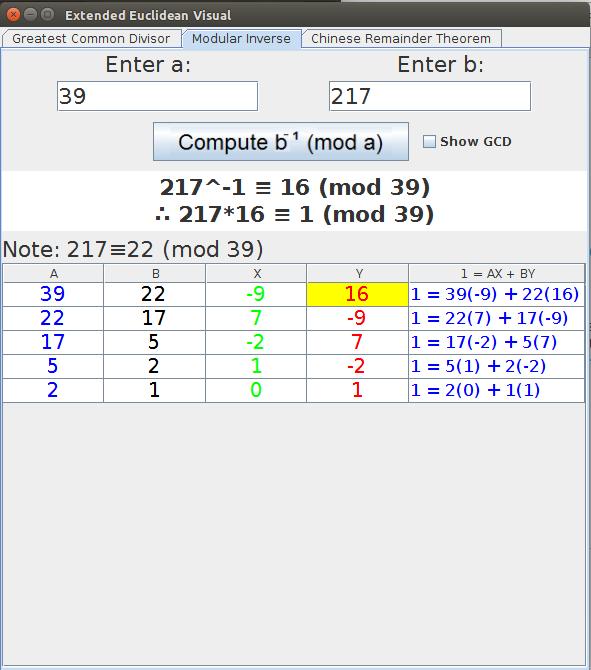
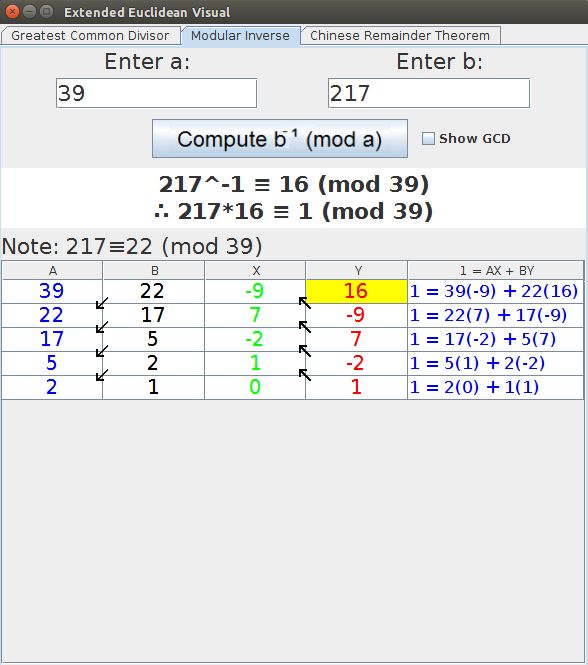
added arrow feature

diff --git a/ModInverseTab.java b/ModInverseTab.java
@@ -1,10 +1,15 @@
+import java.awt.BasicStroke;
 import java.awt.Color;
 import java.awt.Component;
 import java.awt.Dimension;
 import java.awt.Font;
+import java.awt.Graphics;
+import java.awt.Graphics2D;
 import java.awt.GridBagConstraints;
 import java.awt.GridBagLayout;
 import java.awt.Insets;
+import java.awt.Point;
+import java.awt.Rectangle;
 import java.awt.event.ActionEvent;
 import java.awt.event.ActionListener;
 import java.math.BigInteger;
@@ -181,12 +186,68 @@ public class ModInverseTab extends JPanel {
 			public boolean isCellEditable(int row, int column){ //don't let user edit table               
 				return false;      
 			};
+			
+			/**For drawing arrows between cells to clarify workflow.
+			 */
+		    @Override
+		    protected void paintComponent(Graphics g){
+		    	
+		        super.paintComponent(g);
+		 
+		        Graphics2D g2 = (Graphics2D) g;
+		        g2.setStroke(new BasicStroke(2));
+		 
+		        //draw arrows
+		        for (int i = 0; i < getRowCount() - 1; i++)
+		        {
+		        	// -- draw arrow between A,B columns --
+		        	// stem
+		            Rectangle cell = getCellRect(i, 0, false); // cell.x , y = top left corner coords. of rectangle
+		            int outReach = 5; //length to go from paint starting point
+		            Point center = new Point(cell.x + cell.width, cell.y + cell.height); //bottom right corner of cell
+		            Point sw = new Point(center.x - outReach, center.y + outReach); //go southwest. remember x++ is right, y++ is down
+		            Point ne = new Point(center.x + outReach, center.y - outReach); //go northeast
+		            g2.setColor( Color.BLACK);
+		            g2.drawLine(sw.x, sw.y, ne.x, ne.y);
+		            
+		            //now the arrow tip starting from (sw.x, sw.y) - upper part here
+		            outReach = 6;
+		            center = new Point(sw.x, sw.y);
+		            Point north = new Point(center.x, center.y - outReach); 
+		            g2.drawLine(center.x, center.y, north.x, north.y);
+		            
+		            //lower part of arrow tip
+		            Point e = new Point(center.x + outReach, center.y); //east
+		            g2.drawLine(center.x, center.y, e.x, e.y);
+		            
+		            
+		            // -- X,Y columns --
+		            cell = getCellRect(i, 2, false);
+		            outReach = 5; 
+		            center = new Point(cell.x + cell.width, cell.y + cell.height); //bottom right corner of cell
+		            Point nw = new Point(center.x - outReach, center.y - outReach); 
+		            Point se = new Point(center.x + outReach, center.y + outReach); 
+		            g2.drawLine(nw.x, nw.y, se.x, se.y);
+		            
+		            //horizontal tip (above other part)
+		            outReach = 6;
+		            center = new Point(nw.x, nw.y);
+		            e = new Point(center.x + outReach, center.y ); 
+		            g2.drawLine(center.x, center.y, e.x, e.y);
+		            
+		            //vertical tip (lower)
+		            Point south = new Point(center.x, center.y + outReach);
+		            g2.drawLine(center.x, center.y, south.x, south.y);
+		      
+		        }
+		    }// end paintComponent()
 		};
 
 		/* table specifications */
 		t.setFont(new Font("Arial", Font.PLAIN, 20));
 		t.setRowHeight(24);
-
+		t.getTableHeader().setReorderingAllowed(false);
+		
 		//make 1 = AX + BY column larger
 		t.getColumnModel().getColumn(4).setPreferredWidth(150); //normal in gcd tab is 75 each
 		t.getColumnModel().getColumn(4).setCellRenderer(new CellRendererB());
@@ -422,6 +483,7 @@ public class ModInverseTab extends JPanel {
 		ExtendedEuclideanVisual.alignTable(table, 1);
 		table.setFont(new Font("Arial", Font.PLAIN, 18));
 		table.setRowHeight(24);
+		table.getTableHeader().setReorderingAllowed(false);
 		table.getColumnModel().getColumn(3).setCellRenderer(new CellRendererA()); 
 
 		//scroller containing table

diff --git a/CRTTab.java b/CRTTab.java
@@ -1,8 +1,14 @@
+import java.awt.BasicStroke;
+import java.awt.Color;
 import java.awt.Dimension;
 import java.awt.Font;
+import java.awt.Graphics;
+import java.awt.Graphics2D;
 import java.awt.GridBagConstraints;
 import java.awt.GridBagLayout;
 import java.awt.Insets;
+import java.awt.Point;
+import java.awt.Rectangle;
 import java.awt.event.ActionEvent;
 import java.awt.event.ActionListener;
 import java.math.BigInteger;
@@ -289,12 +295,68 @@ public class CRTTab extends JPanel{
 			public boolean isCellEditable(int row, int column){ //don't let user edit table               
 				return false;      
 			};
+			
+			/**For drawing arrows between cells to clarify workflow.
+			 */
+		    @Override
+		    protected void paintComponent(Graphics g){
+		    	
+		        super.paintComponent(g);
+		 
+		        Graphics2D g2 = (Graphics2D) g;
+		        g2.setStroke(new BasicStroke(2));
+		 
+		        //draw arrows
+		        for (int i = 0; i < getRowCount() - 1; i++)
+		        {
+		        	// -- draw arrow between A,B columns --
+		        	// stem
+		            Rectangle cell = getCellRect(i, 0, false); // cell.x , y = top left corner coords. of rectangle
+		            int outReach = 5; //length to go from paint starting point
+		            Point center = new Point(cell.x + cell.width, cell.y + cell.height); //bottom right corner of cell
+		            Point sw = new Point(center.x - outReach, center.y + outReach); //go southwest. remember x++ is right, y++ is down
+		            Point ne = new Point(center.x + outReach, center.y - outReach); //go northeast
+		            g2.setColor( Color.BLACK);
+		            g2.drawLine(sw.x, sw.y, ne.x, ne.y);
+		            
+		            //now the arrow tip starting from (sw.x, sw.y) - upper part here
+		            outReach = 6;
+		            center = new Point(sw.x, sw.y);
+		            Point north = new Point(center.x, center.y - outReach); 
+		            g2.drawLine(center.x, center.y, north.x, north.y);
+		            
+		            //lower part of arrow tip
+		            Point e = new Point(center.x + outReach, center.y); //east
+		            g2.drawLine(center.x, center.y, e.x, e.y);
+		            
+		            
+		            // -- X,Y columns --
+		            cell = getCellRect(i, 2, false);
+		            outReach = 5; 
+		            center = new Point(cell.x + cell.width, cell.y + cell.height); //bottom right corner of cell
+		            Point nw = new Point(center.x - outReach, center.y - outReach); 
+		            Point se = new Point(center.x + outReach, center.y + outReach); 
+		            g2.drawLine(nw.x, nw.y, se.x, se.y);
+		            
+		            //horizontal tip (above other part)
+		            outReach = 6;
+		            center = new Point(nw.x, nw.y);
+		            e = new Point(center.x + outReach, center.y ); 
+		            g2.drawLine(center.x, center.y, e.x, e.y);
+		            
+		            //vertical tip (lower)
+		            Point south = new Point(center.x, center.y + outReach);
+		            g2.drawLine(center.x, center.y, south.x, south.y);
+		      
+		        }
+		    }// end paintComponent()
 		};
 
 		/* table specifications */
 		t.setFont(new Font("Arial", Font.PLAIN, 20));
 		t.setRowHeight(24); //24 on mod inverse tab
-
+		t.getTableHeader().setReorderingAllowed(false);
+		
 		//make 1 = AX + BY column larger
 		t.getColumnModel().getColumn(4).setPreferredWidth(150); 
 		t.getColumnModel().getColumn(4).setCellRenderer(new CellRendererB());

diff --git a/GCDTab.java b/GCDTab.java
@@ -152,6 +152,7 @@ public class GCDTab extends JPanel{
 		ExtendedEuclideanVisual.alignTable(t, 1);
 		t.setFont(new Font("Arial", Font.PLAIN, 22));
 		t.setRowHeight(24);
+		t.getTableHeader().setReorderingAllowed(false);
 
 
 		//scroller containing table

diff --git a/ExtendedEuclideanVisual.java b/ExtendedEuclideanVisual.java
@@ -59,8 +59,6 @@ import javax.swing.table.DefaultTableCellRenderer;
 
 /**TODO
  * 
- * -add painted arrows to show workflow
- * 
  * -help tab with images that can click  or  link to blog explaining each manually (remove javadoc example above)
  * 
  */
